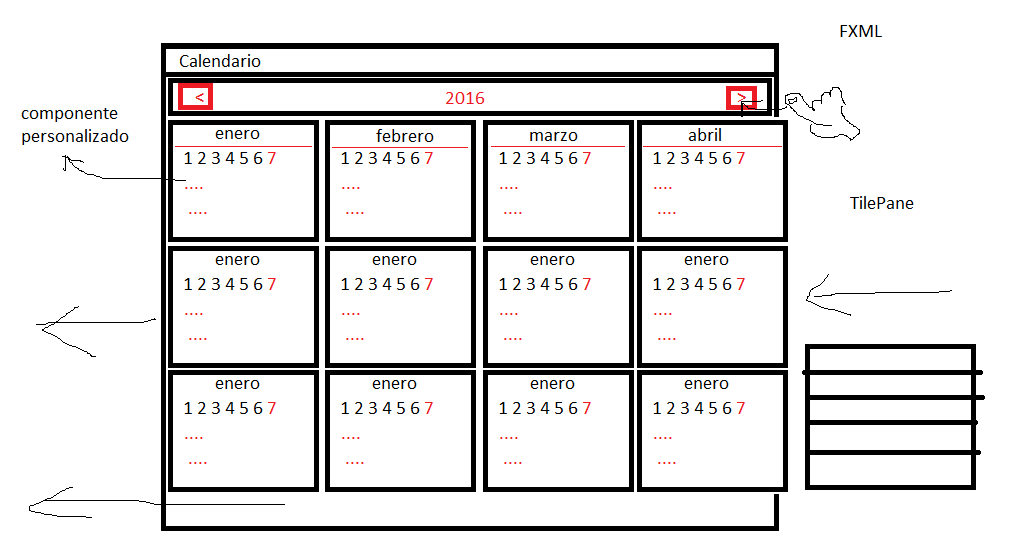
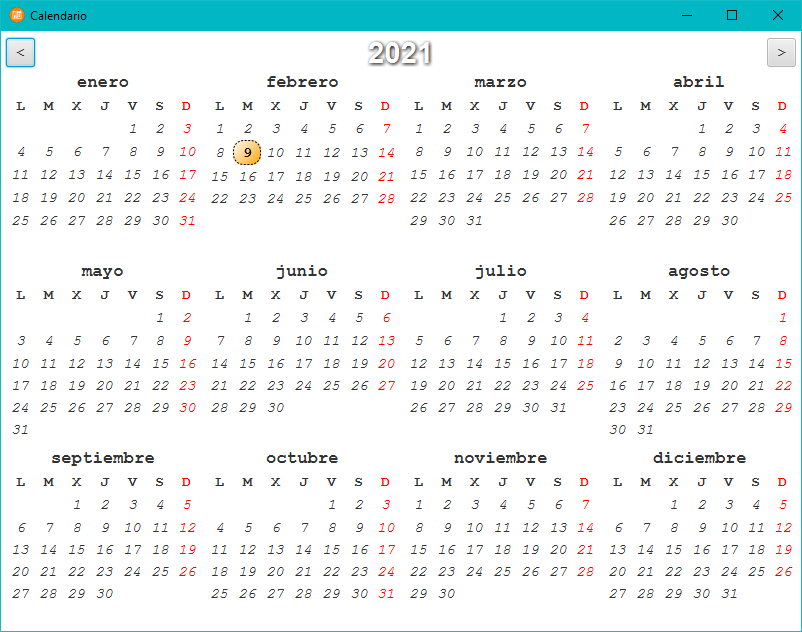
U readme

diff --git a/README.md b/README.md
@@ -1,2 +1,4 @@
 # Calendario
  Calendario anual en JavaFX (CSS + transiciones)
+
+![image-20210209014011216](calendario.png)
